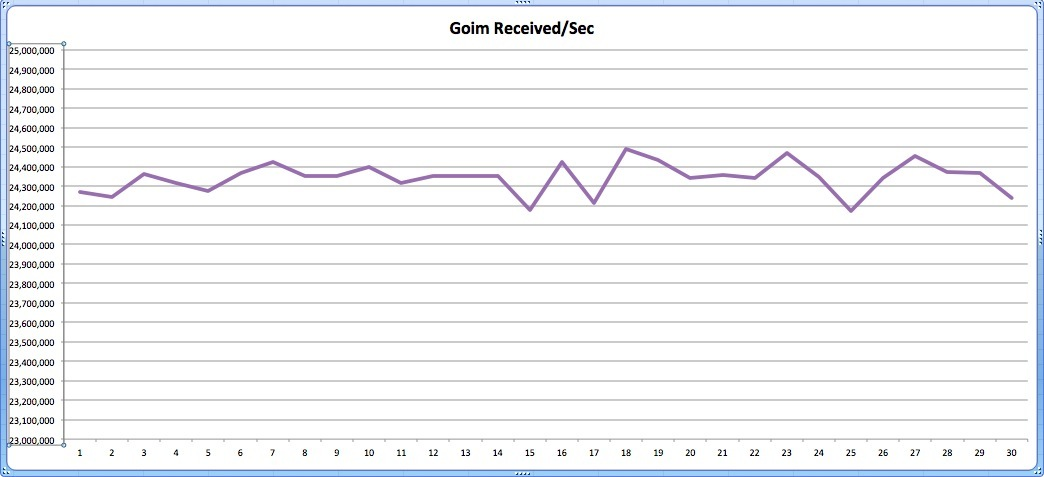
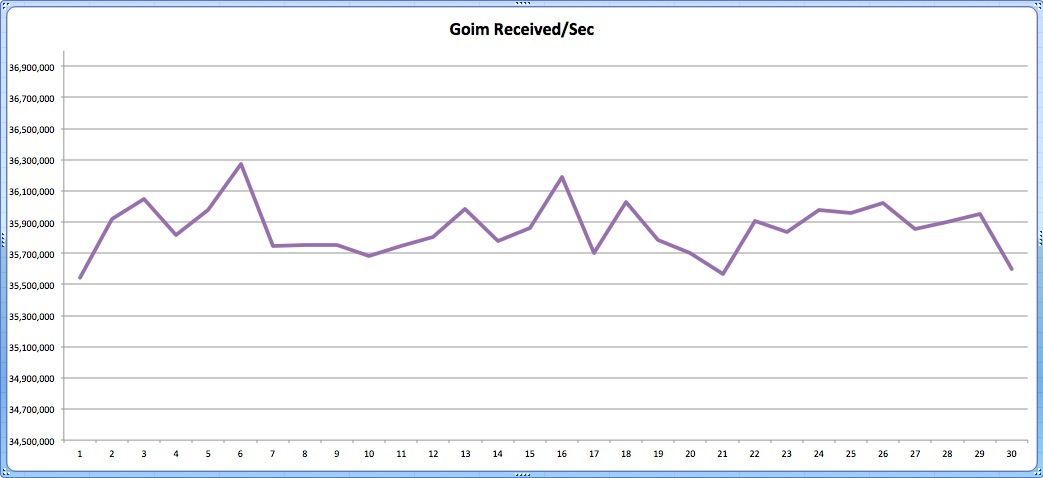
update benchmark doc

Changed region(s): [[0.0, 0.0, 1.0, 1.0], [0.7057, 0.9392, 0.7977, 0.9686], [0.5829, 0.9392, 0.675, 0.9686]]

diff --git a/doc/benchmark_cn.md b/doc/benchmark_cn.md
@@ -2,32 +2,32 @@
 ![benchmark](benchmark.jpg)
 
 ### 服务端配置
-| CPU | 内存 | 数量 |
-| :---- | :---- | :---- |
-| Intel(R) Xeon(R) CPU E5-2630 v2 @ 2.60GHz  | DDR3 32GB | 2台 |
+| CPU | 内存 | 操作系统 | 数量 |
+| :---- | :---- | :---- | :---- |
+| Intel(R) Xeon(R) CPU E5-2630 v2 @ 2.60GHz  | DDR3 32GB | Debian GNU/Linux 8 | 1 |
 
 ### 压测参数
-* 不同UID同房间在线人数: 500,000(每台服务器250,000)
+* 不同UID同房间在线人数: 1,000,000
 * 持续推送时长: 15分钟
-* 持续推送数量: 50条/秒
+* 持续推送数量: 40条/秒
 * 推送内容: {"test":1}
 * 推送类型: 单房间推送
-* 到达计算方式: 30秒统计一次,共30次
+* 到达计算方式: 1秒统计一次,共30次
 
 ### 资源使用
-* 每台服务端CPU使用: 1400%~2340%左右(刚好满负载)
-* 每台服务端内存使用: 4.22GB左右
-* GC耗时: 77毫秒左右
-* 流量使用: Incoming(302MBit/s), Outgoing(3.19GBit/s)
+* 每台服务端CPU使用: 2000%~2300%(刚好满负载)
+* 每台服务端内存使用: 14GB左右
+* GC耗时: 504毫秒左右
+* 流量使用: Incoming(450MBit/s), Outgoing(4.39GBit/s)
 
 ### 压测结果
-* 推送到达: 2,440万/秒左右，平均每台大概1220万/秒;
+* 推送到达: 3590万/秒左右;
 
 ## comet模块
-![benchmark-comet](benchmark-comet.png)
+![benchmark-comet](benchmark-comet.jpg)
 
 ## 流量
-![benchmark-flow](benchmark-flow.png)
+![benchmark-flow](benchmark-flow.jpg)
 
 ## heap信息(包含GC)
-![benchmark-flow](benchmark-heap.png)
+![benchmark-flow](benchmark-heap.jpg)

diff --git a/doc/benchmark_en.md b/doc/benchmark_en.md
@@ -2,32 +2,32 @@
 ![benchmark](benchmark.jpg)
 
 ### Benchmark Server
-| CPU | Memory | Instance |
-| :---- | :---- | :---- |
-| Intel(R) Xeon(R) CPU E5-2630 v2 @ 2.60GHz  | DDR3 32GB | 2 |
+| CPU | Memory | OS | Instance |
+| :---- | :---- | :---- | :---- |
+| Intel(R) Xeon(R) CPU E5-2630 v2 @ 2.60GHz  | DDR3 32GB | Debian GNU/Linux 8 | 1 |
 
 ### Benchmark Case
-* Online: 500,000(250,000 per server)
+* Online: 1,000,000
 * Duration: 15min
-* Push Speed: 50/s (broadcast room)
+* Push Speed: 40/s (broadcast room)
 * Push Message: {"test":1}
-* Received calc mode: 30s per times, total 30 times
+* Received calc mode: 1s per times, total 30 times
 
 ### Benchmark Resource
 
-* CPU: 1400%~2340%
-* Memory: 4.22GB
-* GC Pause: 77ms
-* Network: Incoming(302MBit/s), Outgoing(3.19GBit/s)
+* CPU: 2000%~2300%
+* Memory: 14GB
+* GC Pause: 504ms
+* Network: Incoming(450MBit/s), Outgoing(4.39GBit/s)
 
 ### Benchmark Result
-* Received: 24,400,000/s, 12,200,000/s per server.
+* Received: 35,900,000/s
 
 ## Comet
-![benchmark-comet](benchmark-comet.png)
+![benchmark-comet](benchmark-comet.jpg)
 
 ## Network traffic
-![benchmark-flow](benchmark-flow.png)
+![benchmark-flow](benchmark-flow.jpg)
 
 ## Heap (include GC)
-![benchmark-flow](benchmark-heap.png)
+![benchmark-flow](benchmark-heap.jpg)

diff --git a/README.md b/README.md
@@ -37,25 +37,25 @@ iOS: [iOS](https://github.com/roamdy/goim-oc-sdk)
 ![benchmark](./doc/benchmark.jpg)
 
 ### Benchmark Server
-| CPU | Memory | Instance |
-| :---- | :---- | :---- |
-| Intel(R) Xeon(R) CPU E5-2630 v2 @ 2.60GHz  | DDR3 32GB | 2 |
+| CPU | Memory | OS | Instance |
+| :---- | :---- | :---- | :---- |
+| Intel(R) Xeon(R) CPU E5-2630 v2 @ 2.60GHz  | DDR3 32GB | Debian GNU/Linux 8 | 1 |
 
 ### Benchmark Case
-* Online: 500,000(250,000 per server)
+* Online: 1,000,000
 * Duration: 15min
-* Push Speed: 50/s (broadcast room)
+* Push Speed: 40/s (broadcast room)
 * Push Message: {"test":1}
-* Received calc mode: 30s per times, total 30 times
+* Received calc mode: 1s per times, total 30 times
 
 ### Benchmark Resource
-* CPU: 1400%~2340%
-* Memory: 4.22GB
-* GC Pause: 77ms
-* Network: Incoming(302MBit/s), Outgoing(3.19GBit/s)
+* CPU: 2000%~2300%
+* Memory: 14GB
+* GC Pause: 504ms
+* Network: Incoming(450MBit/s), Outgoing(4.39GBit/s)
 
 ### Benchmark Result
-* Received: 24,400,000/s, 12,200,000/s per server.
+* Received: 35,900,000/s
 
 [中文](./doc/benchmark_cn.md)
 
